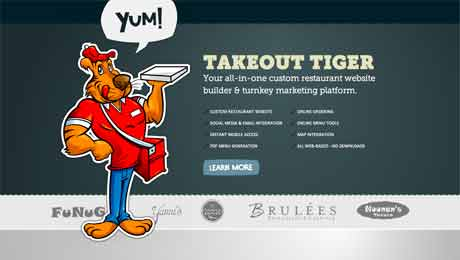
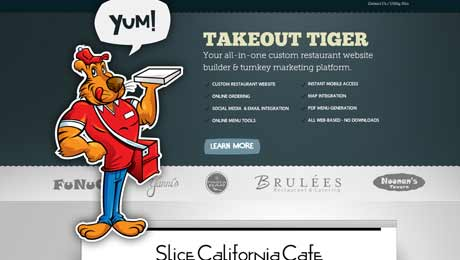
add images for TT page and style up things

diff --git a/static/sass/screen.scss b/static/sass/screen.scss
@@ -55,6 +55,10 @@ $break-large: 51em;
   @else if $media == single-column {
     @media only screen and (max-width: $one-up-home) { @content; }
   }
+  @else if $media == single-up {
+    @media only screen and (min-width: $one-up-home) { @content; }
+  }
+
   @else if $media == medium-screens {
     @media only screen and (max-width: $two-up-home) { @content; }
   }
@@ -73,7 +77,9 @@ $break-large: 51em;
   #{$attr}: calc(#{$expression});
 }
 
-
+.clearfix{
+  @include clearfix;
+}
 
 * {
   @include box-sizing("border-box");
@@ -221,6 +227,10 @@ footer {
     width: 100%;
     height: 100%;
   }
+  img {
+    height: 130px;
+    width: 230px;
+  }
 }
 
 .work {
@@ -279,3 +289,26 @@ footer {
   padding: 0 1.5em;
   }  
 }
+
+.banner, .work-preview{
+  max-width: 100%;
+  border: 1px solid rgba(0,0,0,.3);
+}
+
+
+.work-samples img {
+    border: 1px solid rgba(0,0,0,.3);
+    max-width: 100%;
+    margin-bottom: 1em;
+    @include respond-to(single-up) {
+      max-width: 65%;
+      float:left;
+    }
+    &.right {
+      @include respond-to(single-up) {
+        max-width: 33%;
+        float: right;
+      }
+    }
+  }
+

diff --git a/_layouts/work.html b/_layouts/work.html
@@ -2,14 +2,15 @@
 layout: layout
 body-class: work
 ---
-<div class="content">
-  <h1><a href="{{ page.url }}">{{ page.title }}</a></h1>
+<div class=content>
+  <img class=banner src=/static/images/work/{{ page.banner-image }} />
+  <h1><a href={{ page.url }}>{{ page.title }}</a></h1>
 
   {{ content }}
 
-  <section class="cta">
+  <section class=cta>
   <p>
-  Like what you see? <a href="/about/#contact"> Get in touch</a>, and see what we can do for you.
+  Like what you see? <a href=/about/#contact> Get in touch</a>, and see what we can do for you.
   </p>
   </section>
 </div>

diff --git a/_posts/work/2013-01-12-takeout-tiger.md b/_posts/work/2013-01-12-takeout-tiger.md
@@ -3,7 +3,17 @@ layout: work
 category: work
 title: Takeout Tiger
 preview-image: tt-thumb.jpg
+banner-image: tt-banner.jpg
 work-desc: "Go-to-market strategy, design and development"
 ---
 
-This is a test, we put some stuff in here
+Tired of awful restaurant sites, Takeout tiger did stuf and stuff. A small group of web designers and developers based in Kansas City, who have built a reputation for designing and developing smart, elegant and commonsense solutions, unique to each of our clients. 
+
+
+<div class="clearfix work-samples">
+<img src=/static/images/work/tt-menu.jpg class=right />
+<img src=/static/images/work/tt-1.jpg />
+<img src=/static/images/work/tt-2.jpg />
+<img src=/static/images/work/tt-3.jpg />
+
+</div>

diff --git a/index.md b/index.md
@@ -13,8 +13,9 @@ Three guys in Kansas City designing and building web things for companies and pe
   <a href="{{ post.url }}">
     <span class=work-img>
       <span class=screen></span>
-      <!--<img src="/static/images/work/{{ post.preview-image }}" height="130" width="230" />-->
-      <img src="http://placehold.it/460x260/E8117F/ffffff/&text=FPO" height="130" width="230" />
+      <img src="/static/images/work/{{ post.preview-image }}"
+class=work-preview />
+      <!--<img src="http://placehold.it/460x260/E8117F/ffffff/&text=FPO" height="130" width="230" />-->
     </span>
     <span class=work-title> {{ post.title }} </span>
     <span class=work-desc> {{ post.work-desc }} </span>
